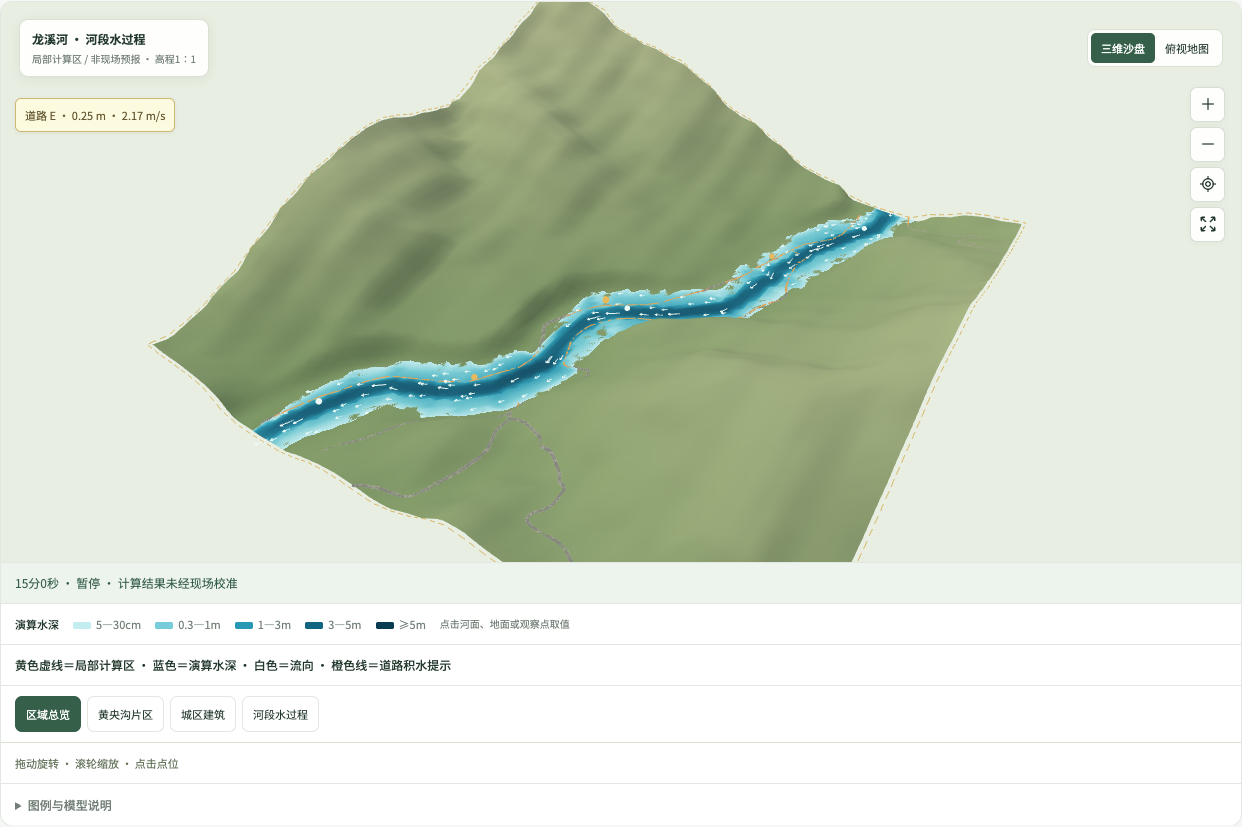
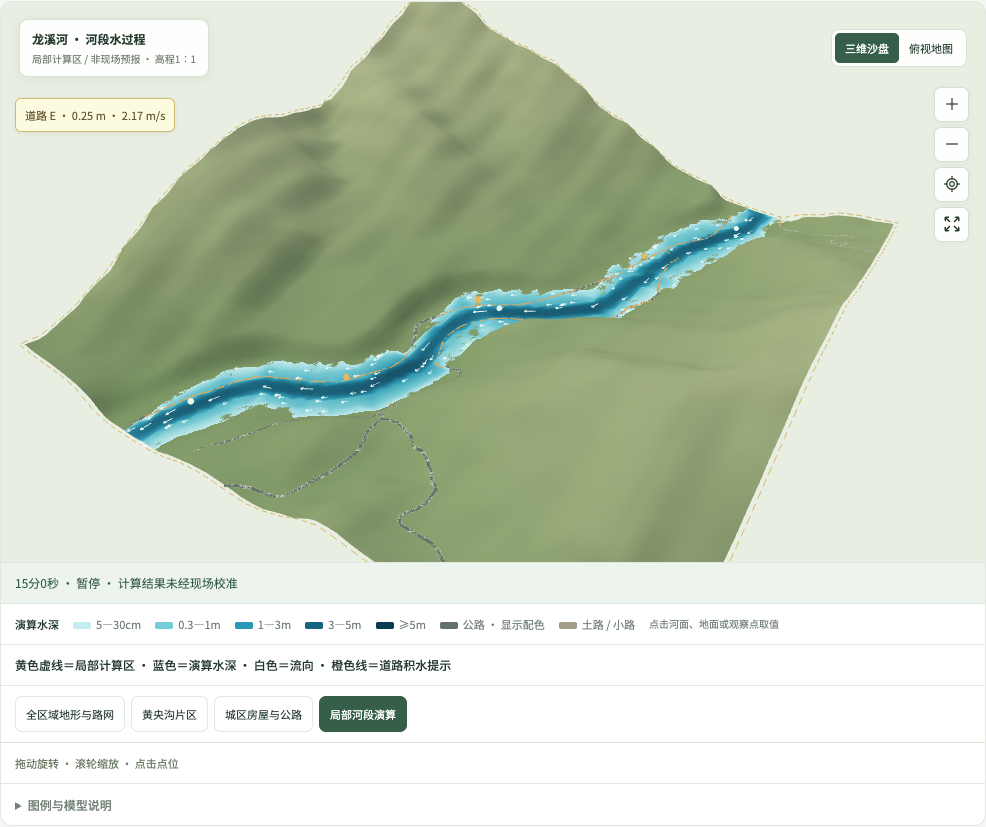
Clarify city and river views and restore access to buildings and roads

diff --git a/src/main.js b/src/main.js
@@ -21,7 +21,7 @@ $('#app').innerHTML=`
 <div class="navline"><div class="breadcrumb">${icon('House')}<span>工作空间</span><span>/</span><b>监测模拟</b></div><span class="time">公开高程与地物 / 模拟读数</span></div>
 <section class="intro"><div><h1>让风险变化，看得见。</h1><p>在三维地形中选择点位，调整环境参数，观察八类风险的模拟响应。</p></div><div class="actions"><button class="btn" id="export">${icon('Download')}导出记录</button><button class="btn primary" id="play">${icon('Play')}<span>开始模拟</span></button></div></section>
 <main class="workspace"><aside class="panel sidebar"><div class="panelhead"><h2>监测范围</h2><span>8 类风险</span></div><div class="section-label">区域筛选</div><div class="zone-switch">${['全部区域','龙池山地区域','河谷居民区','平坝城区'].map((z,i)=>`<button data-zone="${z}" class="${i===0?'active':''}">${z}<span>${i===0?'8':i===1?'5':i===2?'2':'1'}</span></button>`).join('')}</div><div class="section-label">选择风险点位</div><div class="risklist" id="risklist"></div><div class="sidebar-foot"><b>${icon('MapPinned')} 都江堰区域场景</b>建筑轮廓来自公开地图；<br>无高度记录的建筑采用假定高度。<br>模拟阈值不用于现实安全判断。</div></aside>
-<div class="maincolumn"><section class="panel map-panel" aria-label="都江堰三维地形与模拟风险点"><div class="map-header"><div class="map-title"><strong>${icon('MapPinned')}都江堰 · 区域沙盘</strong><small>公开高程 / 垂直夸张 1.8 倍</small></div><div class="segmented"><button id="view3d" class="active" aria-pressed="true">三维沙盘</button><button id="view2d" aria-pressed="false">俯视地图</button></div></div><div id="canvas" class="canvaswrap"><div id="loading" class="map-loading">正在构建地形与点位…</div></div><div class="map-tools"><button class="iconbtn" id="zoom-in" aria-label="放大">${icon('Plus')}</button><button class="iconbtn" id="zoom-out" aria-label="缩小">${icon('Minus')}</button><button class="iconbtn" id="focus" aria-label="定位所选点位">${icon('LocateFixed')}</button><button class="iconbtn" id="reset-camera" aria-label="恢复总览视角">${icon('Expand')}</button></div><div class="map-class-legend"><span><i style="background:#4c7954"></i>山地高程色带</span><span><i style="background:#45a4b5"></i>公开水系</span><span><i style="background:#ecebdc;border:1px solid #819286"></i>建筑轮廓模型</span><span><i style="background:#42484b"></i>城区深灰 / 山路灰绿 / 步道浅褐</span></div><div class="region-tour"><button data-region="overview" class="active">区域总览</button><button data-region="mountain">黄央沟片区</button><button data-region="city">城区建筑</button></div><div class="map-note">地形与建筑高度 ×1.8 · 树群为装饰<br>窗格 / 路缘 / 标线为示意<br>色圈为风险提示，非淹没边界</div><div class="layer-controls"><button data-layer="terrain" class="active">地形与设施</button><button data-layer="plain">纯地形</button><button data-layer="risk">风险点位</button></div><div class="map-footer"><div class="legend">${levels.map(l=>`<span><i style="background:${l.color}"></i>${l.name}</span>`).join('')}<span><i style="background:#8f9692"></i>数据异常</span></div><span>拖动旋转 · 滚轮缩放 · 点击点位</span></div></section>
+<div class="maincolumn"><section class="panel map-panel" aria-label="都江堰三维地形与模拟风险点"><div class="map-header"><div class="map-title"><strong>${icon('MapPinned')}都江堰 · 区域沙盘</strong><small>公开高程 / 垂直夸张 1.8 倍</small></div><div class="segmented"><button id="view3d" class="active" aria-pressed="true">三维沙盘</button><button id="view2d" aria-pressed="false">俯视地图</button></div></div><div id="canvas" class="canvaswrap"><div id="loading" class="map-loading">正在构建地形与点位…</div></div><div class="map-tools"><button class="iconbtn" id="zoom-in" aria-label="放大">${icon('Plus')}</button><button class="iconbtn" id="zoom-out" aria-label="缩小">${icon('Minus')}</button><button class="iconbtn" id="focus" aria-label="定位所选点位">${icon('LocateFixed')}</button><button class="iconbtn" id="reset-camera" aria-label="恢复总览视角">${icon('Expand')}</button></div><div class="map-class-legend"><span><i style="background:#4c7954"></i>山地高程色带</span><span><i style="background:#45a4b5"></i>公开水系</span><span><i style="background:#ecebdc;border:1px solid #819286"></i>建筑轮廓模型</span><span><i style="background:#42484b"></i>城区深灰 / 山路灰绿 / 步道浅褐</span></div><div class="region-tour"><button data-region="overview" class="active">全区域地形与路网</button><button data-region="mountain">黄央沟片区</button><button data-region="city">城区房屋与公路</button></div><div class="map-note">地形与建筑高度 ×1.8 · 树群为装饰<br>窗格 / 路缘 / 标线为示意<br>色圈为风险提示，非淹没边界</div><div class="layer-controls"><button data-layer="terrain" class="active">地形与设施</button><button data-layer="plain">纯地形</button><button data-layer="risk">风险点位</button></div><div class="map-footer"><div class="legend">${levels.map(l=>`<span><i style="background:${l.color}"></i>${l.name}</span>`).join('')}<span><i style="background:#8f9692"></i>数据异常</span></div><span>拖动旋转 · 滚轮缩放 · 点击点位</span></div></section>
 <section class="panel timeline-panel"><div class="data-strip"><div class="data-stat"><span id="metric-title"></span><strong id="metric-value"></strong></div><div class="data-stat"><span>需关注的模拟点位</span><strong id="alert-count"></strong></div><div class="data-stat"><span>模拟经过时间</span><strong id="elapsed"></strong></div></div><div class="chart-header"><b id="chart-title"></b><small>最近 80 个样本 · 模拟数据</small></div><div class="chart-wrap"><svg id="chart" role="img" aria-label="所选点位的模拟数据趋势"></svg><div id="chart-tip" class="chart-tip"></div></div></section></div>
 <div class="rightcolumn"><section class="panel rightpanel"><div class="panelhead"><h2>参数模拟</h2><span id="node-id"></span></div><div class="node-info"><div class="node-tag">${icon('RadioTower')}<span id="node-zone"></span></div><h3 id="node-title"></h3><p id="node-source"></p><div id="node-coordinate" class="node-coordinate"></div></div><div class="status-box" id="status" aria-live="polite"></div><div class="controls"><div class="control"><label class="control-title" for="value-slider"><span id="slider-title"></span><output id="slider-value"></output></label><input id="value-slider" type="range"><div class="range-label"><span id="range-min"></span><span id="range-max"></span></div></div><div class="control"><label class="control-title" for="secondary-slider"><span id="secondary-title"></span><output id="secondary-value"></output></label><input id="secondary-slider" type="range" min="0" max="100" step="1"><div class="range-label"><span>0</span><span>100</span></div></div><div class="presets"><button data-preset="0">常态情景</button><button data-preset="1" class="warn">关注情景</button><button data-preset="2" class="danger">高风险情景</button></div><div class="divider"></div><div class="toggle-row"><span>模拟传感器故障</span><button id="fault" class="switch" role="switch" aria-checked="false" aria-label="模拟所选点位传感器故障"></button></div><div class="toggle-row"><label for="speed">模拟推进速度</label><select id="speed" class="small-select"><option value="1">1×</option><option value="3">3×</option><option value="5">5×</option></select></div><button class="btn" id="reset" style="width:100%;margin-top:16px">${icon('RotateCcw')}重置全部模拟</button></div><div class="source-note"><b>${icon('Info')} 数据边界</b><span id="hazard-note"></span><br>所有输入均为模拟。判断依据说明哪些输入参与规则，哪些仅作环境背景。</div></section><section class="panel event-panel"><div class="panelhead"><h2>变化记录</h2><span id="event-count">0 条</span></div><div id="events" class="events"></div></section></div></main>
 <footer class="bottom"><span>本系统用于竞赛演示。地图高程来自公开数据；建筑轮廓来自公开地图，缺失高度采用假定值；设备、风险等级和读数为模拟。</span><button id="sources">数据来源与模型说明</button></footer><div class="toast" id="toast" role="status"></div>
@@ -53,7 +53,14 @@ document.querySelectorAll('[data-preset]').forEach(button=>button.onclick=()=>{a
 $('#play').onclick=()=>{if(state.controlMode==='scenario'&&!state.scenario){toast('请先生成情景');return}if(state.scenario&&state.controlMode==='scenario'&&state.seconds>=state.scenario.duration){toast('已到终点，请回到起点重播');return}state.running=!state.running;render()};$('#speed').onchange=e=>{state.speed=+e.target.value;save()};
 $('#fault').onclick=()=>{updateNode(state,state.selected,'fault',!state.states[state.selected].fault);render()};
 $('#reset').onclick=()=>{state=createState();selectedZone='全部区域';document.querySelectorAll('[data-zone]').forEach(b=>b.classList.toggle('active',b.dataset.zone===selectedZone));scene?.reset();scene?.layer('terrain');document.querySelectorAll('[data-layer]').forEach(b=>b.classList.toggle('active',b.dataset.layer==='terrain'));render();toast('全部模拟已重置')};
-for(const mode of ['3d','2d'])$(`#view${mode}`).onclick=()=>{state.mode=mode;(hydraulicView?.active?hydraulicView:scene)?.setMode(mode);render()};$('#zoom-in').onclick=()=>(hydraulicView?.active?hydraulicView:scene)?.zoom(.82);$('#zoom-out').onclick=()=>(hydraulicView?.active?hydraulicView:scene)?.zoom(1.22);$('#reset-camera').onclick=()=>(hydraulicView?.active?hydraulicView:scene)?.reset();$('#focus').onclick=()=>(hydraulicView?.active?hydraulicView:scene)?.focus(state.selected);document.querySelectorAll('[data-region]').forEach(button=>button.onclick=()=>{if(hydraulicView?.active)hydraulicView.deactivate();scene?.region(button.dataset.region);document.querySelectorAll('[data-region]').forEach(b=>b.classList.toggle('active',b===button));});document.querySelectorAll('[data-layer]').forEach(button=>button.onclick=()=>{state.layer=button.dataset.layer;scene?.layer(state.layer);document.querySelectorAll('[data-layer]').forEach(b=>b.classList.toggle('active',b===button));save()});
+function chooseRegion(name){
+ if(hydraulicView?.active)hydraulicView.deactivate();
+ state.layer='terrain';scene?.layer('terrain');scene?.region(name);
+ document.querySelectorAll('[data-region]').forEach(b=>{const active=b.dataset.region===name;b.classList.toggle('active',active);b.setAttribute('aria-pressed',String(active));});
+ document.querySelectorAll('[data-layer]').forEach(b=>b.classList.toggle('active',b.dataset.layer==='terrain'));
+ save();
+}
+for(const mode of ['3d','2d'])$(`#view${mode}`).onclick=()=>{state.mode=mode;(hydraulicView?.active?hydraulicView:scene)?.setMode(mode);render()};$('#zoom-in').onclick=()=>(hydraulicView?.active?hydraulicView:scene)?.zoom(.82);$('#zoom-out').onclick=()=>(hydraulicView?.active?hydraulicView:scene)?.zoom(1.22);$('#reset-camera').onclick=()=>(hydraulicView?.active?hydraulicView:scene)?.reset();$('#focus').onclick=()=>(hydraulicView?.active?hydraulicView:scene)?.focus(state.selected);document.querySelectorAll('[data-region]').forEach(button=>button.onclick=()=>chooseRegion(button.dataset.region));document.querySelectorAll('[data-layer]').forEach(button=>button.onclick=()=>{state.layer=button.dataset.layer;scene?.layer(state.layer);document.querySelectorAll('[data-layer]').forEach(b=>b.classList.toggle('active',b===button));save()});
 $('#export').onclick=()=>{const contents={project:'山川守望·监测模拟',exportedAt:new Date().toISOString(),geometryEvidence:dataProvenance.report,disclaimer:'全部读数与阈值为模拟；点位定位来源见页面说明，不能用于现实预警',state:hydraulicView?.active?hydraulicView.exportData():state};const url=URL.createObjectURL(new Blob([JSON.stringify(contents,null,2)],{type:'application/json'})),a=document.createElement('a');a.href=url;a.download='山川守望-模拟记录.json';a.click();setTimeout(()=>URL.revokeObjectURL(url),1000);toast('模拟记录已导出')};
 function openDialog(html){$('#dialog-content').innerHTML=html;$('#info-dialog').showModal()}
 $('#close-dialog').onclick=()=>$('#info-dialog').close();$('#info-dialog').onclick=e=>{if(e.target===$('#info-dialog')){const r=e.target.getBoundingClientRect();if(e.clientX<r.left||e.clientX>r.right||e.clientY<r.top||e.clientY>r.bottom)e.target.close()}};
@@ -61,9 +68,9 @@ $('#help').onclick=()=>openDialog(`<h2>使用模拟实验台</h2><p>六类新增
 $('#sources').onclick=()=>{openDialog(`<h2>数据来源与模型边界</h2><p>新增冰雪、大风、高温、森林火险、滑坡和泥石流画面均为变量驱动的现象示意。冰雪路段与覆盖、热色带、林地关注范围为假定；风向为来向，风迹与位移箭头为视觉映射。烟柱只表示手动巡查记录。滑移距离及泥流速度、宽度、含固比例为手动输入，路径只按局部公开DEM采样下坡，不是已核实沟道或地质灾害模型，不能用作真实影响范围。详见各风险下方说明。</p><div id="dialog-geometry-audit"></div><p>积水近景的道路、地面高差、建筑与排水口均为设计示意，采用米为单位，无垂直夸张。覆盖面积由该示意地面与水平水面的相交关系估算，排除建筑内部；没有使用真实排水或水动力模型，不能推断现实区域淹没、流速或河道水位。</p><div class="source-grid"><div class="source-row"><b>公开背景：高程</b><p>Mapzen Terrain Tiles / AWS Open Data，Terrarium 编码。区域范围 103.46°—103.73°E、30.94°—31.17°N，513×513 重采样网格；原始采样高程约648—2958米。垂直夸张1.8倍，仅用于区域展示，非工程测绘。<a href="https://registry.opendata.aws/terrain-tiles/" target="_blank" rel="noopener">查看高程数据来源</a></p></div><div class="source-row"><b>道路与水系：公开地图矢量</b><p id="osm-source-note">来源与载入状态正在检查。</p></div><div class="source-row"><b>建筑模型与点位定位边界</b><p>建筑平面轮廓来自OpenStreetMap，采用高度标签或楼层标签；缺失时统一假定12米高度。建筑高度与地形统一按1.8倍显示，基座补齐公开DEM的地表起伏；白墙、屋顶边缘与窗格为沙盘样式，并非真实立面。道路使用贴地面片；宽度优先使用OSM宽度标签，否则按车道数或道路等级估计，路缘和标线为示意。河道显示宽度为示意。黄央沟节点按文献沟口坐标定位，但坐标基准未注明；其余7个节点为示意。山体颜色结合高程与坡度，树群为装饰示意，位置、数量和尺寸不代表真实植被；材质颗粒不改变地形高度。色圈只是模拟提示，不是真实灾害影响边界。</p></div><div class="source-row"><b>模拟内容：读数、阈值与曲线</b><p>全部传感器读数和预警等级为演示输入，没有接入实时气象预警。低温不等于结冰；降雨不等于泥石流；火险指数不等于实际火情。</p></div><div class="source-row"><b>真实案例参考，非当前状态</b><p><a href="https://dnr.gxzf.gov.cn/xwzx/gnzx/t16014404.shtml" target="_blank" rel="noopener">龙池山洪泥石流历史调查</a> · <a href="https://www.scfzbs.com/sz/202401/82454133.html" target="_blank" rel="noopener">都江堰公安冰雪出行提示</a> · <a href="https://weather.cma.cn/web/alarm/51018141600000_20250616093052.html" target="_blank" rel="noopener">历史高温预警</a></p></div></div>`);fetch(import.meta.env.BASE_URL+'data/osm.json').then(r=>{if(!r.ok)throw Error();return r.json()}).then(d=>{const el=$('#osm-source-note');if(el)el.innerHTML=`道路与水系采用 OpenStreetMap 数据，共${d.elements?.length??0}条地图要素，其中${d.elements?.filter(w=>w.tags.building).length??0}条建筑轮廓，下载于2026-10-10。只覆盖河谷和城区两个矩形片区，可能不完整或非最新。© <a href="https://www.openstreetmap.org/copyright" target="_blank" rel="noopener">OpenStreetMap contributors / ODbL</a>。`}).catch(()=>{const el=$('#osm-source-note');if(el)el.textContent='公开矢量数据未载入，本版未展示道路与水系矢量。'});if(dataProvenance.report)$('#dialog-geometry-audit').innerHTML=auditMarkup(dataProvenance.report);else $('#dialog-geometry-audit').textContent='核查记录未载入，不能确认数据依据。';};
 controlPanel=mountControls(()=>state,render,selectHazard,toast);
 waterView=mountWaterView(()=>state,v=>{updateValue(state,'water',v);render()},()=>{selectHazard('water');scene?.focus('water');$('.map-panel').scrollIntoView({behavior:'smooth',block:'center'})});
-mountHydraulicView(active=>{if(active){state.running=false;state.selected='water';selectedZone='全部区域';document.querySelectorAll('[data-zone]').forEach(b=>b.classList.toggle('active',b.dataset.zone==='全部区域'));}else scene?.setMode(state.mode);render()},()=>state).then(v=>{hydraulicView=v;const query=new URLSearchParams(location.search),requested=query.get('risk');if(!query.has('street')&&!query.has('lightning')&&(query.get('river')==='1'||requested==='water'||(!requested&&state.selected==='water'))){v.activate();const t=Number(query.get('stage'));if(query.has('stage')&&Number.isFinite(t)&&t>=0&&t<=7200)v.seek(t)}}).catch(e=>{toast(e.message);console.error(e)});
+mountHydraulicView(active=>{if(active){state.running=false;state.selected='water';selectedZone='全部区域';document.querySelectorAll('[data-zone]').forEach(b=>b.classList.toggle('active',b.dataset.zone==='全部区域'));}else scene?.setMode(state.mode);render()},()=>state).then(v=>{hydraulicView=v;const query=new URLSearchParams(location.search),requested=query.get('risk');if(!query.has('area')&&!query.has('street')&&!query.has('lightning')&&(query.get('river')==='1'||requested==='water'||(!requested&&state.selected==='water'))){v.activate();const t=Number(query.get('stage'));if(query.has('stage')&&Number.isFinite(t)&&t>=0&&t<=7200)v.seek(t)}}).catch(e=>{toast(e.message);console.error(e)});
 lightningView=mountLightningView(()=>state,()=>scene,render,selectHazard,toast);
 hazardEffects=mountHazardEffects(()=>state,()=>scene,render,toast);
 setInterval(()=>{$('#wallclock').textContent=new Intl.DateTimeFormat('zh-CN',{timeZone:'Asia/Shanghai',month:'2-digit',day:'2-digit',hour:'2-digit',minute:'2-digit',hour12:false}).format(new Date());if(state.running){tick(state);render()}},1000);
-render();createScene($('#canvas'),()=>state,selectHazard).then(s=>{scene=s;$('#loading').classList.add('hidden');scene.setMode(state.mode);scene.layer(state.layer);lightningView?.onSceneReady();if(new URLSearchParams(location.search).get('lightning')==='1'){selectHazard('lightning');scene.focusLightning?.(state.lightningSession.config.region,state.lightningSession.config.distance);}const risk=new URLSearchParams(location.search).get('risk');if(hazards.some(h=>h.id===risk))selectHazard(risk);else if(['ice','wind','heat','forest','landslide','debris'].includes(state.selected))scene.focusEffect?.(state.selected);render();document.documentElement.dataset.ready='true';}).catch(e=>{$('#loading').innerHTML=`地形未能加载。<button class="btn" id="retry">重试</button>`;$('#retry').onclick=()=>location.reload();console.error(e)});
+render();createScene($('#canvas'),()=>state,selectHazard).then(s=>{scene=s;$('#loading').classList.add('hidden');scene.setMode(state.mode);scene.layer(state.layer);lightningView?.onSceneReady();if(new URLSearchParams(location.search).get('lightning')==='1'){selectHazard('lightning');scene.focusLightning?.(state.lightningSession.config.region,state.lightningSession.config.distance);}const risk=new URLSearchParams(location.search).get('risk');if(hazards.some(h=>h.id===risk))selectHazard(risk);else if(['ice','wind','heat','forest','landslide','debris'].includes(state.selected))scene.focusEffect?.(state.selected);const area=new URLSearchParams(location.search).get('area');if(['city','mountain','overview'].includes(area))chooseRegion(area);render();document.documentElement.dataset.ready='true';}).catch(e=>{$('#loading').innerHTML=`地形未能加载。<button class="btn" id="retry">重试</button>`;$('#retry').onclick=()=>location.reload();console.error(e)});
 window.addEventListener('beforeunload',()=>{save();scene?.dispose();waterView?.dispose();hydraulicView?.dispose();lightningView?.dispose();hazardEffects?.dispose()});

diff --git a/src/hydraulic-view.js b/src/hydraulic-view.js
@@ -10,8 +10,8 @@ export async function mountHydraulicView(onMode,getState=()=>({selected:'water'}
  let p={...defaults},restoreTime=60,restoredRecords=[],restorePicked=data.probe;
  try{const saved=JSON.parse(localStorage.getItem('shanchuan-river-v2'));if(saved?.method===method.id){p=validateParameters({...p,...saved.parameters});restoreTime=Number.isFinite(saved.t)?Math.max(0,Math.min(7200,saved.t)):60;restorePicked=Number.isInteger(saved.picked)&&saved.picked>=0&&saved.picked<data.nx*data.ny?saved.picked:data.probe;restoredRecords=Array.isArray(saved.events)?saved.events:[];}}catch{p={...defaults};}
  const input=k=>{const [label,min,max,step]=fields[k];return `<label>${label}<input id="hydraulic-${k}" type="number" min="${min}" max="${max}" step="${step}" value="${k==='duration'?p[k]/60:p[k]}"></label>`;};
- const panel=document.createElement('section');panel.className='panel hydraulic-panel';panel.innerHTML=`<div class="hydraulic-heading"><div><span class="water-eyebrow">LONGXI RIVER · 河段水过程</span><h2>控制来水，看见整段涨水。</h2><p>局部1.536 × 1.536 km · 假定河槽 · 演算水深，不是现场预报</p></div><div class="hydraulic-tabs"><button id="hydraulic-enter" class="btn primary">进入河段演算</button><button id="hydraulic-exit" class="btn">教学积水近景</button></div></div>
- <div id="hydraulic-body" hidden><div class="hydraulic-inputs river-primary-fields">${['qPeak','rain','drain','tailDepth'].map(input).join('')}</div><p class="river-input-help">修改有效数值后会重算当前时刻。水深和流速由系统计算；“教学积水近景”的手动厘米数不控制河流。</p>
+ const panel=document.createElement('section');panel.className='panel hydraulic-panel';panel.innerHTML=`<div class="hydraulic-heading"><div><span class="water-eyebrow">LONGXI RIVER · 河段水过程</span><h2>控制来水，看见整段涨水。</h2><p>局部1.536 × 1.536 km · 假定河槽 · 演算水深，不是现场预报</p></div><div class="hydraulic-tabs"><button id="hydraulic-enter" class="btn primary">进入河段演算</button><button id="hydraulic-exit" class="btn" hidden>教学积水近景</button></div></div>
+ <div id="river-scope-context" class="river-scope-context" hidden><p>当前仅显示局部河段，公开数据含${data.roads.length}条道路、${data.buildings.length}条建筑轮廓；缺少轮廓不代表现场没有房屋。原城区建筑模型仍保留在区域视图。</p><button id="hydraulic-city">查看城区房屋与公路</button></div><div id="hydraulic-body" hidden><div class="hydraulic-inputs river-primary-fields">${['qPeak','rain','drain','tailDepth'].map(input).join('')}</div><p class="river-input-help">修改有效数值后会重算当前时刻。水深和流速由系统计算；“教学积水近景”的手动厘米数不控制河流。</p>
  <div class="hydraulic-actions"><label><input id="hydraulic-blocked" type="checkbox" ${p.drainBlocked?'checked':''}> 排水受阻</label><button id="hydraulic-apply" class="btn">应用条件并重算</button><button id="hydraulic-play" class="btn primary">开始河段演算</button><label>播放倍率<select id="hydraulic-speed-select"><option value="10">10×</option><option value="30" selected>30×</option><option value="60">60×</option></select></label><label><input id="hydraulic-animation" type="checkbox" checked> 动态流线与微波纹</label></div>
  <div class="hydraulic-presets"><button data-hydraulic-stage="60">1分钟 · 观察来水</button><button data-hydraulic-stage="900">15分钟 · 观察高水位</button><button data-hydraulic-stage="3600">60分钟 · 观察退水</button><button id="hydraulic-reset">回到起点</button></div><label class="hydraulic-seek-label">演算时间 <output id="hydraulic-time">正在载入…</output><input id="hydraulic-seek" type="range" min="0" max="7200" step="1" value="0"></label><p id="hydraulic-progress" role="status"></p>
  <details class="hydraulic-settings"><summary>来水过程与假定河槽参数</summary><div class="hydraulic-inputs">${['qStart','qEnd','duration','width','bankDepth','initialDepth','roughness','runoff'].map(input).join('')}</div><p>下游边界高程＝边界河槽底高程＋参考水深，允许出流与倒灌，收支分别记录。其余边界封闭。降雨只施加在计算区内；上游汇水、支流和真实管网尚未接入。改变河槽尺寸会重建假定地形。</p></details></div>`;
@@ -24,14 +24,14 @@ export async function mountHydraulicView(onMode,getState=()=>({selected:'water'}
  <p class="hydraulic-boundary">黄色虚线圈定局部计算区，区域外未参与演算。水面与面积统一使用5cm阈值；面积按网格统计，水面边缘为插值显示。河谷三维高程采用1∶1显示；区域总览仍为1.8倍展示。流线按估计速度和同一播放时钟移动，箭头长度仅帮助辨认；暂停停止水面过渡和动态效果。首次进入展示已演算1分钟的暂停结果，刷新恢复上次完成时刻。道路过程按5模拟秒采样，另记录当前完成时刻；首次积水及峰值可能遗漏采样间变化。手动近景是独立教学场景。</p>`;
  const mapPanel=document.querySelector('.map-panel');mapPanel.before(panel);mapPanel.after(results);const $=s=>panel.querySelector(s)??results.querySelector(s),container=document.querySelector('#canvas');
  const mapStatus=document.createElement('div');mapStatus.className='river-map-status';mapStatus.hidden=true;mapStatus.setAttribute('role','status');mapPanel.querySelector('#scene-caption').before(mapStatus);
- const legend=document.createElement('div');legend.className='river-depth-legend';legend.hidden=true;legend.innerHTML='<b>演算水深</b><span><i style="background:#c2edf1"></i>5—30cm</span><span><i style="background:#76ccd9"></i>0.3—1m</span><span><i style="background:#2998b5"></i>1—3m</span><span><i style="background:#136480"></i>3—5m</span><span><i style="background:#093b53"></i>≥5m</span><small>点击河面、地面或观察点取值</small>';mapStatus.after(legend);
+ const legend=document.createElement('div');legend.className='river-depth-legend';legend.hidden=true;legend.innerHTML='<b>演算水深</b><span><i style="background:#c2edf1"></i>5—30cm</span><span><i style="background:#76ccd9"></i>0.3—1m</span><span><i style="background:#2998b5"></i>1—3m</span><span><i style="background:#136480"></i>3—5m</span><span><i style="background:#093b53"></i>≥5m</span><span><i style="background:#647269"></i>公路 · 显示配色</span><span><i style="background:#a29d87"></i>土路 / 小路</span><small>点击河面、地面或观察点取值</small>';mapStatus.after(legend);
  let active=false,playing=false,busy=false,current=0,id=0,result=null,picked=restorePicked,comparison=null,changeTimer,events=restoredRecords,reference=null,completedParameters={...p};const eventDrafts=new Map();
  const mapTitle=document.querySelector('.map-title').innerHTML,mapNote=document.querySelector('.map-note').innerHTML;
  const newMap=()=>createHydraulicScene(container,data,geometry(data,completedParameters).z,completedParameters.width,{sites:observationSites(data,completedParameters.width),onPick:i=>{picked=i;renderObservation();save();}});let map=newMap();
  const worker=new Worker(new URL('./hydraulic-worker.js',import.meta.url),{type:'module'});worker.postMessage({type:'init',data});
  const review=mountGeometryReview($('#river-geometry-review'),data,()=>geometry(data,completedParameters).z,view=>{pause();map.setEvidenceView(view);updateUI();},()=>({...completedParameters}));
  function save(){try{localStorage.setItem('shanchuan-river-v2',JSON.stringify({method:method.id,parameters:completedParameters,t:current,picked,events}));}catch{}}
- function switchMode(value){active=value;pause();map.setActive(value);if(value)map.setEvidenceView(review.view);container.classList.toggle('hydraulic-active',value);document.body.classList.toggle('hydraulic-layout',value);$('#hydraulic-body').hidden=!value;results.hidden=mapStatus.hidden=legend.hidden=!value;$('#hydraulic-enter').hidden=value;$('#hydraulic-exit').hidden=!value;document.querySelector('.map-title').innerHTML=value?'<strong>龙溪河 · 河段水过程</strong><small>局部计算区 / 演算水深 · 高程1∶1</small>':mapTitle;document.querySelector('.map-note').innerHTML=value?'局部1.536 × 1.536km · 假定河槽<br>观察位置为网格采样，非实测站点':mapNote;onMode(value);if(value){map.setMode(document.querySelector('#view2d').classList.contains('active')?'2d':'3d');if(!result)request(restoreTime,true);}updateUI();}
+ function switchMode(value){active=value;pause();map.setActive(value);if(value)map.setEvidenceView(review.view);container.classList.toggle('hydraulic-active',value);document.body.classList.toggle('hydraulic-layout',value);$('#hydraulic-body').hidden=!value;$('#river-scope-context').hidden=!value;for(const b of document.querySelectorAll('[data-region]')){const selected=!value&&b.dataset.region==='overview';b.classList.toggle('active',selected);b.setAttribute('aria-pressed',String(selected));}mapEntry.classList.toggle('active',value);mapEntry.setAttribute('aria-pressed',String(value));results.hidden=mapStatus.hidden=legend.hidden=!value;$('#hydraulic-enter').hidden=value;$('#hydraulic-exit').hidden=!value;document.querySelector('.map-title').innerHTML=value?'<strong>龙溪河 · 河段水过程</strong><small>局部计算区 / 演算水深 · 高程1∶1</small>':mapTitle;document.querySelector('.map-note').innerHTML=value?'局部1.536 × 1.536km · 假定河槽<br>观察位置为网格采样，非实测站点':mapNote;onMode(value);if(value){map.setMode(document.querySelector('#view2d').classList.contains('active')?'2d':'3d');if(!result)request(restoreTime,true);}updateUI();}
  function parameters(){const next={...p};for(const key of Object.keys(fields)){const input=$('#hydraulic-'+key);if(!input.checkValidity()||input.value==='')throw Error('请填写范围内的有效数值');next[key]=Number(input.value);}next.duration*=60;next.drainBlocked=$('#hydraulic-blocked').checked;return validateParameters(next);}
  function pause(){playing=false;map.setPlayback(false,+$('#hydraulic-speed-select').value);if(busy){worker.postMessage({type:'cancel',id:++id});busy=false;}updateUI();}
  function request(target,reset=false){playing=false;map.setPlayback(false);if(!Number.isFinite(target))return;target=Math.max(0,Math.min(7200,target));$('#hydraulic-seek').value=target;if(target<current){events=[];eventDrafts.clear();save();}busy=true;mapStatus.textContent=`正在计算至${time(target)} · 地图保留上次完成结果`;$('#hydraulic-progress').textContent=mapStatus.textContent;const recompute=reset||scenarioId(method.id,p)!==scenarioId(method.id,completedParameters);worker.postMessage({type:recompute?'reset':'advance',id:++id,target,...(recompute?{parameters:{...p}}:{})});updateUI();}
@@ -66,8 +66,8 @@ export async function mountHydraulicView(onMode,getState=()=>({selected:'water'}
   window.__hydraulic={active,busy,playing,t:current,parameters:{...p},resultParameters:{...completedParameters},metrics:result?.metrics,observations:result?.observations,roads:result?.roads,probeCoordinate:data.probeCoordinate,geometryVerified:false,geometryView:review.view,comparison,events,scenarioComparison:result?scenarioComparison(reference,result,completedParameters):null,method:method.id,request:t=>request(t)};
  }
  $('#river-reference').onclick=()=>{if(!result||busy)return;reference={t:current,parameters:{...completedParameters},metrics:{...result.metrics}};renderScenarioComparison();};
- const mapEntry=document.createElement('button');mapEntry.id='hydraulic-map-enter';mapEntry.textContent='河段水过程';document.querySelector('.region-tour').append(mapEntry);mapEntry.onclick=()=>switchMode(true);
- $('#hydraulic-enter').onclick=()=>switchMode(true);$('#hydraulic-exit').onclick=()=>switchMode(false);$('#hydraulic-apply').onclick=()=>{clearTimeout(changeTimer);apply();};
+ const mapEntry=document.createElement('button');mapEntry.id='hydraulic-map-enter';mapEntry.textContent='局部河段演算';document.querySelector('.region-tour').append(mapEntry);mapEntry.onclick=()=>switchMode(true);
+ $('#hydraulic-city').onclick=()=>document.querySelector('[data-region="city"]').click();$('#hydraulic-enter').onclick=()=>switchMode(true);$('#hydraulic-exit').onclick=()=>switchMode(false);$('#hydraulic-apply').onclick=()=>{clearTimeout(changeTimer);apply();};
  for(const key of Object.keys(fields))$('#hydraulic-'+key).onchange=()=>{clearTimeout(changeTimer);changeTimer=setTimeout(apply,180);};$('#hydraulic-blocked').onchange=apply;
  $('#hydraulic-play').onclick=()=>{if(playing)pause();else if(!busy){review.reset();playing=true;updateUI();}};$('#hydraulic-reset').onclick=()=>request(0,true);$('#hydraulic-seek').onchange=e=>request(+e.target.value);for(const b of panel.querySelectorAll('[data-hydraulic-stage]'))b.onclick=()=>request(+b.dataset.hydraulicStage);
  $('#hydraulic-speed-select').onchange=updateUI;const reduced=matchMedia('(prefers-reduced-motion: reduce)').matches;$('#hydraulic-animation').checked=!reduced;map.setAnimation(!reduced);$('#hydraulic-animation').onchange=e=>map.setAnimation(e.target.checked);

diff --git a/src/hydraulic-scene.js b/src/hydraulic-scene.js
@@ -12,7 +12,7 @@ export function createHydraulicScene(container,data,z,channelWidth=48,{onPick=()
  const index=(x,z)=>{const c=Math.floor(x*1000/dx+nx/2),r=Math.floor(z*1000/dx+ny/2);return c<0||c>=nx||r<0||r>=ny?-1:r*nx+c;};
  const cellPoint=i=>new THREE.Vector3((i%nx+.5-nx/2)*dx/1000,Y(z[i]),(Math.floor(i/nx)+.5-ny/2)*dx/1000);
  function ground(lon,lat){const col=THREE.MathUtils.clamp((lon-data.bounds.west)/(data.bounds.east-data.bounds.west)*nx-.5,0,nx-1),row=THREE.MathUtils.clamp((data.bounds.north-lat)/(data.bounds.north-data.bounds.south)*ny-.5,0,ny-1),c=Math.min(nx-2,Math.floor(col)),r=Math.min(ny-2,Math.floor(row)),u=col-c,v=row-r,a=z[r*nx+c],b=z[r*nx+c+1],d=z[(r+1)*nx+c],e=z[(r+1)*nx+c+1];return Y(u+v<=1?a+(b-a)*u+(d-a)*v:e+(d-e)*(1-u)+(b-e)*(1-v));}
- const roadBuilder=createRoadBuilder(data.bounds,ground,.03,true),mx=111320*Math.cos(data.origin.lat*Math.PI/180);
+ const roadBuilder=createRoadBuilder(data.bounds,ground,.03,true,{mountainColor:'#647269',mountainCurbColor:'#c2c7b1'}),mx=111320*Math.cos(data.origin.lat*Math.PI/180);
  for(const road of data.roads)roadBuilder.add({id:road.id,tags:road.tags,geometry:road.points.map(q=>({lon:data.origin.lon+q.x/mx,lat:data.origin.lat-q.z/111320}))});const roadMesh=roadBuilder.mesh();scene.add(roadMesh);
  const roadWet=new THREE.Mesh(new THREE.BufferGeometry(),new THREE.MeshBasicMaterial({color:'#e4a758',side:THREE.DoubleSide}));scene.add(roadWet);
  const domainPoints=[];for(let side=0;side<4;side++)for(let k=0;k<=32;k++){const a=k/32,edge=nx*dx/2000,other=ny*dx/2000,x=side===0?-edge+2*edge*a:side===1?edge:side===2?edge-2*edge*a:-edge,zq=side===0?-other:side===1?-other+2*other*a:side===2?other:other-2*other*a,i=index(THREE.MathUtils.clamp(x,-edge+.00001,edge-.00001),THREE.MathUtils.clamp(zq,-other+.00001,other-.00001));domainPoints.push(new THREE.Vector3(x,Y(z[Math.max(0,i)])+.002,zq));}
@@ -36,7 +36,7 @@ export function createHydraulicScene(container,data,z,channelWidth=48,{onPick=()
  function frame(now){if(disposed)return;requestAnimationFrame(frame);if(!active||document.hidden)return;controls.update();if(result){const fraction=playing&&result.t>fromTime?Math.min(1,(now-transitionStart)/1000*rate/(result.t-fromTime)):1;displayTime=fromTime+(result.t-fromTime)*fraction;const dt=playing&&animate?Math.max(0,Math.min(10,displayTime-lastVisualTime)):0;lastVisualTime=displayTime;phase=animate?displayTime:0;uniforms.time.value=phase;uniforms.ripples.value=animate?1:0;
   for(let i=0;i<N;i++){const h=previous?lastDepths[i]+(result.h[i]-lastDepths[i])*fraction:result.h[i];wp.setY(i,Y(z[i]+h)+.000003);depths.setX(i,h);}wp.needsUpdate=true;depths.needsUpdate=true;lastFrame++;
   let v=0;for(const q of particles){let i=index(q.x,q.z);if(!q.valid||i<0||result.h[i]<.05)spawn(q);if(!q.valid){for(let k=0;k<18;k++)linePos.array[v++]=0;continue;}i=index(q.x,q.z);const vx=result.u[i],vz=result.v[i],speed=Math.hypot(vx,vz);if(dt){q.x+=vx*dt/1000;q.z+=vz*dt/1000;}const length=Math.min(.035,Math.max(.014,speed*.004)),ux=speed>.001?vx/speed:0,uz=speed>.001?vz/speed:0,y=Y(z[i]+depths.getX(i))+.0005,x=q.x,zq=q.z,tx=x+ux*length,tz=zq+uz*length;for(const pt of [[x,y,zq],[tx,y,tz],[tx,y,tz],[tx-ux*.006-uz*.004,y,tz-uz*.006+ux*.004],[tx,y,tz],[tx-ux*.006+uz*.004,y,tz-uz*.006-ux*.004]])for(const a of pt)linePos.array[v++]=a;}linePos.needsUpdate=true;
-  window.__hydraulicVisual={phase,displayTime,playing,animation:animate,selectedIndex,wetCells:wet.length,frame:lastFrame,waterVisible:waterMesh.visible,evidenceView,verticalScale:1};
+  window.__hydraulicVisual={phase,displayTime,playing,animation:animate,selectedIndex,wetCells:wet.length,frame:lastFrame,waterVisible:waterMesh.visible,evidenceView,verticalScale:1,roadCount:roadBuilder.metadata.length,buildingCount:data.buildings.length};
  }
  label.hidden=evidenceView!=='model';renderer.render(scene,camera);}
  requestAnimationFrame(frame);root.remove();

diff --git a/src/style.css b/src/style.css
@@ -28,3 +28,4 @@
 .river-road-row button{text-align:left;min-height:44px;padding:8px 10px;background:var(--paper);border-color:var(--line)}.river-road-row button small{display:block;margin-top:5px}.river-road-row button:hover{background:var(--forest-light)}.river-event-section,.river-scenario-section{margin-top:24px;padding-top:20px;border-top:1px solid var(--line)}.river-event-section h3,.river-scenario-section h3{font-size:15px;margin:0 0 12px;line-height:1.7}.river-event-heading{display:flex;justify-content:space-between;gap:12px;align-items:start}.river-event-heading b{font-size:12px;overflow-wrap:anywhere}.river-event-heading span{font-size:11px;color:var(--forest)}#river-events{display:grid;gap:12px;margin-top:16px}#river-events article{padding:16px;background:var(--paper);border-radius:8px}#river-events p,.river-empty,.river-route-gap,#river-scenario-comparison p{font-size:11px;line-height:1.9;color:var(--muted);margin:8px 0}.river-event-actions{display:flex;flex-wrap:wrap;gap:8px;margin-top:12px;align-items:center}.river-event-actions button{min-height:44px;padding:10px 12px;font-size:11px}.river-event-actions label{flex-basis:100%;font-size:11px;color:var(--muted);line-height:1.8}.river-event-actions textarea{display:block;width:100%;resize:vertical;min-height:80px;margin-top:8px;background:var(--surface);border:1px solid var(--line);border-radius:6px;padding:12px;font:inherit;color:var(--ink)}.river-event-actions small{font-size:10px;color:var(--muted);line-height:1.8}#river-events ol{margin:8px 0 0;padding-left:18px;font-size:10px;line-height:1.9;color:var(--muted)}#river-events ol:empty{display:none}#river-event-status{font-size:11px;color:var(--amber)}.river-route-gap{margin-top:16px}.river-scenario-deltas{display:grid;grid-template-columns:repeat(3,minmax(0,1fr));gap:16px;padding:16px 0}.river-scenario-deltas span{font-size:10px;color:var(--muted);line-height:1.8}.river-scenario-deltas b{display:block;font-size:20px;color:var(--ink);font-weight:600;font-variant-numeric:tabular-nums}.river-event-actions button:focus-visible,.river-road-row button:focus-visible{outline:2px solid var(--forest);outline-offset:3px}.river-results button:active{transform:scale(.98)}.river-results button:disabled{opacity:.55;cursor:wait}
 @media(max-width:640px){.river-event-heading{display:block}.river-event-heading span{display:block;margin-top:6px}#river-events article{padding:12px}.river-scenario-deltas{grid-template-columns:1fr;gap:10px}.river-scenario-deltas span{display:flex;justify-content:space-between;align-items:center}.river-scenario-deltas b{font-size:18px}.river-road-row{grid-template-columns:minmax(0,1fr) auto!important}.river-road-row button{min-width:0}.river-event-section,.river-scenario-section{margin-top:20px;padding-top:16px}}
 @media(min-width:1051px){.hydraulic-layout .workspace{grid-template-columns:218px minmax(0,1fr)}.hydraulic-layout .rightcolumn{display:none}}
+.river-scope-context{display:flex;align-items:center;gap:16px;padding:12px;margin-top:16px;background:var(--forest-light);border-radius:8px}.river-scope-context[hidden]{display:none}.river-scope-context p{margin:0;font-size:11px;color:var(--muted);line-height:1.8;flex:1}.river-scope-context button{min-height:44px;padding:10px 12px;font-size:11px;flex-shrink:0}.region-tour button.active{background:var(--forest);color:var(--surface)}@media(max-width:640px){.river-scope-context{display:block;padding:12px}.river-scope-context button{margin-top:10px;width:100%}.region-tour button{white-space:normal}}

diff --git a/tests/browser/map-context.spec.js b/tests/browser/map-context.spec.js
@@ -1,0 +1,12 @@
+import {test,expect} from '@playwright/test';
+test('局部河段明确范围，城区房屋和公路保留，纯地形状态能恢复',async({page})=>{
+ const errors=[];page.on('pageerror',e=>errors.push(e.message));await page.goto('?river=1&stage=900');await expect(page.locator('html')).toHaveAttribute('data-ready','true');await page.waitForFunction(()=>window.__hydraulic?.active&&!window.__hydraulic.busy);const stored=await page.evaluate(()=>window.__hydraulic.metrics.stored);
+ await expect(page.locator('#river-scope-context')).toContainText('8条道路、0条建筑轮廓');await expect(page.locator('[data-region].active')).toHaveCount(0);await expect(page.locator('#hydraulic-map-enter')).toHaveAttribute('aria-pressed','true');
+ await page.locator('#hydraulic-city').click();await expect(page.locator('[data-region="city"]')).toHaveAttribute('aria-pressed','true');await page.waitForFunction(()=>window.__sceneMetrics.buildingsVisible&&window.__sceneMetrics.roadsVisible);expect(await page.evaluate(()=>window.__mapData.buildingCount)).toBe(420);expect(await page.evaluate(()=>window.__hydraulic.active)).toBe(false);await page.locator('.map-panel').screenshot({path:'artifacts/city-retained.png'});
+ await page.locator('[data-layer="plain"]').click();await page.waitForFunction(()=>!window.__sceneMetrics.buildingsVisible);await page.locator('[data-region="city"]').click();await page.waitForFunction(()=>window.__sceneMetrics.buildingsVisible&&window.__sceneMetrics.roadsVisible);expect(await page.evaluate(()=>window.__monitor.state.layer)).toBe('terrain');
+ await page.locator('#hydraulic-map-enter').click();await page.waitForFunction(()=>window.__hydraulic.active&&!window.__hydraulic.busy);expect(await page.evaluate(()=>window.__hydraulic.metrics.stored)).toBe(stored);expect(await page.evaluate(()=>window.__hydraulicVisual.roadCount)).toBe(8);expect(errors).toEqual([]);await page.locator('.map-panel').screenshot({path:'artifacts/river-roads-visible.png'});
+});
+test('城区直达链接与手机入口不溢出，模型和视图选中状态一致',async({page})=>{
+ await page.setViewportSize({width:390,height:844});await page.goto('?area=city');await expect(page.locator('html')).toHaveAttribute('data-ready','true');await page.waitForFunction(()=>window.__hydraulic&&!window.__hydraulic.busy);await expect(page.locator('[data-region="city"]')).toHaveAttribute('aria-pressed','true');expect(await page.evaluate(()=>window.__hydraulic.active)).toBe(false);await page.locator('.map-panel').screenshot({path:'artifacts/city-retained-mobile.png'});
+ await page.locator('#hydraulic-map-enter').click();await page.waitForFunction(()=>window.__hydraulic.active&&!window.__hydraulic.busy);await expect(page.locator('#river-scope-context')).toBeVisible();expect(await page.evaluate(()=>document.documentElement.scrollWidth)).toBeLessThanOrEqual(390);
+});

diff --git a/src/city-geometry.js b/src/city-geometry.js
@@ -28,7 +28,7 @@ export function roadProfile(tags, mountain=false) {
 }
 
 // All ribbons are batched into a single colored mesh; no elevated road tubes.
-export function createRoadBuilder(bounds, elevation, liftScale=1, mountainOverride=null) {
+export function createRoadBuilder(bounds, elevation, liftScale=1, mountainOverride=null,{mountainColor='#85887d',mountainCurbColor='#a5a794'}={}) {
   const positions=[], colors=[], metadata=[];
   const mountainTint=new THREE.Color('#85887d');
   const ground=(x,z)=>{const geo=unproject(x,z,bounds);return elevation(geo.lon,geo.lat);};
@@ -74,14 +74,14 @@ export function createRoadBuilder(bounds, elevation, liftScale=1, mountainOverri
     // This is a display classification from the DEM, not a surveyed road surface.
     const heights=coords.map(q=>elevation(q.lon,q.lat)).sort((a,b)=>a-b);
     const mountain=mountainOverride??(heights[Math.floor(heights.length/2)]>.72);
-    const profile=roadProfile(way.tags,mountain), points=[];
+    const profile=roadProfile(way.tags,mountain), points=[];if(mountain&&!profile.walking&&way.tags.highway!=='track')profile.color=mountainColor;
     for(let i=1;i<coords.length;i++){
       const a=project(coords[i-1].lon,coords[i-1].lat,bounds),b=project(coords[i].lon,coords[i].lat,bounds);
       const count=Math.max(1,Math.ceil(Math.hypot(b.x-a.x,b.z-a.z)/.006));
       for(let j=0;j<count;j++){const t=j/count;points.push({x:a.x+(b.x-a.x)*t,z:a.z+(b.z-a.z)*t});}
     }
     points.push(project(coords.at(-1).lon,coords.at(-1).lat,bounds));
-    if(!profile.walking)strip(points,profile.width+(mountain?.001:.0024),.0014*liftScale,mountain?'#a5a794':'#b9b5a5');
+    if(!profile.walking)strip(points,profile.width+(mountain?.001:.0024),.0014*liftScale,mountain?mountainCurbColor:'#b9b5a5');
     strip(points,profile.width,.0018*liftScale,profile.color);
     if(profile.major&&!mountain){
       // Illustrative road markings; not surveyed lane geometry.

diff --git a/src/scene.js b/src/scene.js
@@ -123,7 +123,7 @@ export async function createScene(container,getState,onSelect){
   const placements=arrangeLabels(entries,w,h,reserved);
   for(const {el,box} of placements){el.style.display=box?'block':'none';if(box){el.style.left=`${box.left}px`;el.style.top=`${box.top}px`;}}
   lightningLayer.update(camera,container);hazardLayer.update(camera);renderer.render(scene,camera);frames++;
-  window.__sceneMetrics={frames,elapsedMs:performance.now()-started,drawCalls:renderer.info.render.calls,triangles:renderer.info.render.triangles,labelCount:placements.filter(p=>p.box).length,pixelRatio:renderer.getPixelRatio()};
+  window.__sceneMetrics={frames,buildingsVisible:buildings.visible&&buildings.children.length>0,roadsVisible:roads.visible,elapsedMs:performance.now()-started,drawCalls:renderer.info.render.calls,triangles:renderer.info.render.triangles,labelCount:placements.filter(p=>p.box).length,pixelRatio:renderer.getPixelRatio()};
  }
 
  render();

diff --git a/README.md b/README.md
@@ -103,6 +103,10 @@ assets/         真实运行截图
 
 ### 龙溪河局部河段：水过程、道路依据与处置演练
 
+![城区房屋与公路视图](assets/city-context.png)
+
+原全区域的420个公开建筑轮廓模型与路网仍保留。河段面板可点击「查看城区房屋与公路」，或通过 `?area=city`直接查看城区；选择区域视图会恢复地形与设施图层。局部河段独立标明其0条公开建筑记录和8条道路，未将其他区域的房屋搬进计算区。山路在局部视图采用较清晰的灰绿配色与浅色路缘，配色不代表实测路面材料。
+
 选择积水默认进入河段演算，或打开网址添加 `?river=1`；`&stage=900`直接查看默认条件15分钟。控制峰值来水、局部降雨、假定排水和下游参考水深，展开可改来水过程与假定河槽。修改有效输入后重算当前时刻，计算期间保留上次完成的地图并明确标注。首次进入显示1分钟暂停结果；刷新恢复上次完成时刻和参数并暂停。可以切换独立的「教学积水近景」，或通过 `?street=1`直接进入原手动教学模式。
 
 公开来源：打包DEM、OSM龙溪河中心线（way 219484805）与8条邻近道路要素。计算域约1.536×1.536km，96×96单元、16m插值网格，不增加原约50m DEM的测绘精度。该域公开建筑轮廓为0条，不能据此认定现场没有房屋。默认假定河槽宽48m、深3m，去除局部反坡并以岸外96m过渡衔接公开DEM；修改最大量约50.917m，须参见几何核查。整个流域、上游汇水、支流与管网没有建模。
